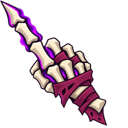
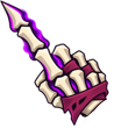
more add options

diff --git a/app.js b/app.js
@@ -60,9 +60,9 @@ const DEFAULT_TIERS=[['S','#ff7f7f'],['A','#ffbf7f'],['B','#ffdf7f'],['C','#ffff
 const APP_PREFERENCES_KEY='tierforge:preferences';
 const LABEL_MODES=new Set(['find','show','hover']);
 const CURSORS={
-  ironclad:{name:'Ironclad',src:'assets/cursors/ironclad.png',hotspot:[2.5,.5]},
-  necrobinder:{name:'Necrobinder',src:'assets/cursors/necrobinder.png',hotspot:[5,2]},
-  silent:{name:'Silent',src:'assets/cursors/silent.png',hotspot:[4,1.5]}
+  ironclad:{name:'Ironclad',src:'assets/cursors/ironclad.png',hotspot:[0,0]},
+  necrobinder:{name:'Necrobinder',src:'assets/cursors/necrobinder.png',hotspot:[0,0]},
+  silent:{name:'Silent',src:'assets/cursors/silent.png',hotspot:[0,0]}
 };
 const DEFAULT_CURSOR_ICON='assets/cursors/default.png';
 const cursorIconSources=new Map();
@@ -2095,6 +2095,80 @@ function quickWikiImport(src){
   $('#localimgs').checked=!!helperBase; $('#embedimgs').checked=false;
   $('#btnFetch').click();
 }
+/* ============================ CATALOG PICKER ============================
+   Search the bundled catalogs and add individual entries to the pool, rather
+   than importing a whole list. Entries go through mergeItemsIntoPool, so an
+   item already on the board is never duplicated. */
+const catalogPicker={type:'all',chosen:new Map(),entries:null};
+const CATALOG_RESULT_LIMIT=240;
+function catalogEntries(){
+  if(!catalogPicker.entries)catalogPicker.entries=Promise.all(GAME_SOURCES.map(async src=>{
+    try{ return (await loadBundledCatalog(src)).items.map((it,i)=>({...it,key:`${src.id}:${i}`,itemType:src.itemType})); }
+    catch(e){ console.warn(`${src.itemType} catalog unavailable:`,e); return []; }
+  })).then(lists=>{ const all=lists.flat(); if(!all.length)catalogPicker.entries=null; return all; });
+  return catalogPicker.entries;
+}
+function boardImageKeys(){
+  const keys=new Set();
+  Object.values(S.items).forEach(it=>{ if(it.img)keys.add(it.img); if(it.src)keys.add(it.src); });
+  return keys;
+}
+async function renderCatalogPicker(){
+  const types=['all',...GAME_SOURCES.map(g=>g.itemType)];
+  $('#catalogTypes').innerHTML=types.map(t=>`<button type="button" role="radio" data-ctype="${t}"
+    aria-checked="${t===catalogPicker.type}" class="${t===catalogPicker.type?'primary':'ghost'}">${t[0].toUpperCase()+t.slice(1)}</button>`).join('');
+  $$('button[data-ctype]',$('#catalogTypes')).forEach(b=>b.onclick=()=>{ catalogPicker.type=b.dataset.ctype; renderCatalogPicker(); });
+  const results=$('#catalogResults');
+  if(!catalogPicker.entries)results.innerHTML='<div class="muted">Loading catalogs…</div>';
+  const entries=await catalogEntries();
+  if(!entries.length){ results.innerHTML='<div class="muted">No catalogs could be loaded.</div>'; return updateCatalogStatus(0); }
+  const terms=$('#catalogQuery').value.toLowerCase().split(/\s+/).filter(Boolean);
+  const matches=entries.filter(it=>(catalogPicker.type==='all'||it.itemType===catalogPicker.type)&&
+    terms.every(t=>[it.name,...(it.tags||[]),it.description].join(' ').toLowerCase().includes(t)));
+  const onBoard=boardImageKeys();
+  results.innerHTML=matches.slice(0,CATALOG_RESULT_LIMIT).map(it=>{
+    const present=onBoard.has(it.img||it.src);
+    return `<button type="button" class="catalog-entry${catalogPicker.chosen.has(it.key)?' chosen':''}${present?' present':''}"
+      data-ckey="${esc(it.key)}" title="${esc([it.name,(it.tags||[]).join(', '),it.description].filter(Boolean).join('\n'))}">
+      <img src="${esc(it.img||it.src)}" data-fallback="${esc(it.fallbackImg||'')}" alt="" loading="lazy">
+      <span class="catalog-name">${esc(it.name)}</span>
+      <small>${present?'On board':esc(it.itemType)}</small></button>`;
+  }).join('')||'<div class="muted">No matches.</div>';
+  $$('img[data-fallback]',results).forEach(img=>img.onerror=()=>{
+    const fallback=img.dataset.fallback; img.onerror=null; if(fallback)img.src=fallback; });
+  const byKey=new Map(entries.map(it=>[it.key,it]));
+  $$('.catalog-entry',results).forEach(b=>{
+    b.onclick=()=>{ const it=byKey.get(b.dataset.ckey);
+      if(catalogPicker.chosen.has(it.key))catalogPicker.chosen.delete(it.key); else catalogPicker.chosen.set(it.key,it);
+      b.classList.toggle('chosen',catalogPicker.chosen.has(it.key)); updateCatalogStatus(matches.length); };
+    b.ondblclick=()=>{ catalogPicker.chosen.set(b.dataset.ckey,byKey.get(b.dataset.ckey)); addChosenCatalogItems(); };
+  });
+  updateCatalogStatus(matches.length);
+}
+function updateCatalogStatus(matchCount){
+  const n=catalogPicker.chosen.size;
+  const shown=matchCount>CATALOG_RESULT_LIMIT?`Showing ${CATALOG_RESULT_LIMIT} of ${matchCount} — refine your search`:`${matchCount} match${matchCount===1?'':'es'}`;
+  $('#catalogStatus').textContent=n?`${shown} · ${n} selected`:shown;
+  $('#btnCatalogAdd').disabled=!n;
+  $('#btnCatalogAdd').textContent=n>1?`Add ${n} items`:'Add selected';
+}
+function addChosenCatalogItems(){
+  const items=[...catalogPicker.chosen.values()].map(({key,itemType,...it})=>it);
+  if(!items.length)return;
+  snapshot(); const added=mergeItemsIntoPool({items});
+  catalogPicker.chosen.clear(); persist(); render(); dlgCatalog.close();
+  toast(added?`Added ${added} item${added===1?'':'s'} to the pool`:'Already on the board');
+}
+$('#btnAddCatalog').onclick=()=>{
+  catalogPicker.chosen.clear(); $('#catalogQuery').value='';
+  const detected=detectGameSource(S); catalogPicker.type=detected?detected.itemType:'all';
+  dlgCatalog.showModal(); $('#catalogQuery').focus(); renderCatalogPicker();
+};
+let catalogQueryTimer=0;
+$('#catalogQuery').oninput=()=>{ clearTimeout(catalogQueryTimer); catalogQueryTimer=setTimeout(renderCatalogPicker,120); };
+$('#catalogQuery').onkeydown=e=>{ if(e.key==='Enter'&&catalogPicker.chosen.size){ e.preventDefault(); addChosenCatalogItems(); } };
+$('#btnCatalogAdd').onclick=addChosenCatalogItems;
+
 $('#embedimgs').onchange=()=>{ if($('#embedimgs').checked) $('#localimgs').checked=false; };
 $('#localimgs').onchange=()=>{ if($('#localimgs').checked) $('#embedimgs').checked=false; };
 

diff --git a/public/app.js b/public/app.js
@@ -60,9 +60,9 @@ const DEFAULT_TIERS=[['S','#ff7f7f'],['A','#ffbf7f'],['B','#ffdf7f'],['C','#ffff
 const APP_PREFERENCES_KEY='tierforge:preferences';
 const LABEL_MODES=new Set(['find','show','hover']);
 const CURSORS={
-  ironclad:{name:'Ironclad',src:'assets/cursors/ironclad.png',hotspot:[2.5,.5]},
-  necrobinder:{name:'Necrobinder',src:'assets/cursors/necrobinder.png',hotspot:[5,2]},
-  silent:{name:'Silent',src:'assets/cursors/silent.png',hotspot:[4,1.5]}
+  ironclad:{name:'Ironclad',src:'assets/cursors/ironclad.png',hotspot:[0,0]},
+  necrobinder:{name:'Necrobinder',src:'assets/cursors/necrobinder.png',hotspot:[0,0]},
+  silent:{name:'Silent',src:'assets/cursors/silent.png',hotspot:[0,0]}
 };
 const DEFAULT_CURSOR_ICON='assets/cursors/default.png';
 const cursorIconSources=new Map();
@@ -2095,6 +2095,80 @@ function quickWikiImport(src){
   $('#localimgs').checked=!!helperBase; $('#embedimgs').checked=false;
   $('#btnFetch').click();
 }
+/* ============================ CATALOG PICKER ============================
+   Search the bundled catalogs and add individual entries to the pool, rather
+   than importing a whole list. Entries go through mergeItemsIntoPool, so an
+   item already on the board is never duplicated. */
+const catalogPicker={type:'all',chosen:new Map(),entries:null};
+const CATALOG_RESULT_LIMIT=240;
+function catalogEntries(){
+  if(!catalogPicker.entries)catalogPicker.entries=Promise.all(GAME_SOURCES.map(async src=>{
+    try{ return (await loadBundledCatalog(src)).items.map((it,i)=>({...it,key:`${src.id}:${i}`,itemType:src.itemType})); }
+    catch(e){ console.warn(`${src.itemType} catalog unavailable:`,e); return []; }
+  })).then(lists=>{ const all=lists.flat(); if(!all.length)catalogPicker.entries=null; return all; });
+  return catalogPicker.entries;
+}
+function boardImageKeys(){
+  const keys=new Set();
+  Object.values(S.items).forEach(it=>{ if(it.img)keys.add(it.img); if(it.src)keys.add(it.src); });
+  return keys;
+}
+async function renderCatalogPicker(){
+  const types=['all',...GAME_SOURCES.map(g=>g.itemType)];
+  $('#catalogTypes').innerHTML=types.map(t=>`<button type="button" role="radio" data-ctype="${t}"
+    aria-checked="${t===catalogPicker.type}" class="${t===catalogPicker.type?'primary':'ghost'}">${t[0].toUpperCase()+t.slice(1)}</button>`).join('');
+  $$('button[data-ctype]',$('#catalogTypes')).forEach(b=>b.onclick=()=>{ catalogPicker.type=b.dataset.ctype; renderCatalogPicker(); });
+  const results=$('#catalogResults');
+  if(!catalogPicker.entries)results.innerHTML='<div class="muted">Loading catalogs…</div>';
+  const entries=await catalogEntries();
+  if(!entries.length){ results.innerHTML='<div class="muted">No catalogs could be loaded.</div>'; return updateCatalogStatus(0); }
+  const terms=$('#catalogQuery').value.toLowerCase().split(/\s+/).filter(Boolean);
+  const matches=entries.filter(it=>(catalogPicker.type==='all'||it.itemType===catalogPicker.type)&&
+    terms.every(t=>[it.name,...(it.tags||[]),it.description].join(' ').toLowerCase().includes(t)));
+  const onBoard=boardImageKeys();
+  results.innerHTML=matches.slice(0,CATALOG_RESULT_LIMIT).map(it=>{
+    const present=onBoard.has(it.img||it.src);
+    return `<button type="button" class="catalog-entry${catalogPicker.chosen.has(it.key)?' chosen':''}${present?' present':''}"
+      data-ckey="${esc(it.key)}" title="${esc([it.name,(it.tags||[]).join(', '),it.description].filter(Boolean).join('\n'))}">
+      <img src="${esc(it.img||it.src)}" data-fallback="${esc(it.fallbackImg||'')}" alt="" loading="lazy">
+      <span class="catalog-name">${esc(it.name)}</span>
+      <small>${present?'On board':esc(it.itemType)}</small></button>`;
+  }).join('')||'<div class="muted">No matches.</div>';
+  $$('img[data-fallback]',results).forEach(img=>img.onerror=()=>{
+    const fallback=img.dataset.fallback; img.onerror=null; if(fallback)img.src=fallback; });
+  const byKey=new Map(entries.map(it=>[it.key,it]));
+  $$('.catalog-entry',results).forEach(b=>{
+    b.onclick=()=>{ const it=byKey.get(b.dataset.ckey);
+      if(catalogPicker.chosen.has(it.key))catalogPicker.chosen.delete(it.key); else catalogPicker.chosen.set(it.key,it);
+      b.classList.toggle('chosen',catalogPicker.chosen.has(it.key)); updateCatalogStatus(matches.length); };
+    b.ondblclick=()=>{ catalogPicker.chosen.set(b.dataset.ckey,byKey.get(b.dataset.ckey)); addChosenCatalogItems(); };
+  });
+  updateCatalogStatus(matches.length);
+}
+function updateCatalogStatus(matchCount){
+  const n=catalogPicker.chosen.size;
+  const shown=matchCount>CATALOG_RESULT_LIMIT?`Showing ${CATALOG_RESULT_LIMIT} of ${matchCount} — refine your search`:`${matchCount} match${matchCount===1?'':'es'}`;
+  $('#catalogStatus').textContent=n?`${shown} · ${n} selected`:shown;
+  $('#btnCatalogAdd').disabled=!n;
+  $('#btnCatalogAdd').textContent=n>1?`Add ${n} items`:'Add selected';
+}
+function addChosenCatalogItems(){
+  const items=[...catalogPicker.chosen.values()].map(({key,itemType,...it})=>it);
+  if(!items.length)return;
+  snapshot(); const added=mergeItemsIntoPool({items});
+  catalogPicker.chosen.clear(); persist(); render(); dlgCatalog.close();
+  toast(added?`Added ${added} item${added===1?'':'s'} to the pool`:'Already on the board');
+}
+$('#btnAddCatalog').onclick=()=>{
+  catalogPicker.chosen.clear(); $('#catalogQuery').value='';
+  const detected=detectGameSource(S); catalogPicker.type=detected?detected.itemType:'all';
+  dlgCatalog.showModal(); $('#catalogQuery').focus(); renderCatalogPicker();
+};
+let catalogQueryTimer=0;
+$('#catalogQuery').oninput=()=>{ clearTimeout(catalogQueryTimer); catalogQueryTimer=setTimeout(renderCatalogPicker,120); };
+$('#catalogQuery').onkeydown=e=>{ if(e.key==='Enter'&&catalogPicker.chosen.size){ e.preventDefault(); addChosenCatalogItems(); } };
+$('#btnCatalogAdd').onclick=addChosenCatalogItems;
+
 $('#embedimgs').onchange=()=>{ if($('#embedimgs').checked) $('#localimgs').checked=false; };
 $('#localimgs').onchange=()=>{ if($('#localimgs').checked) $('#embedimgs').checked=false; };
 

diff --git a/app.css b/app.css
@@ -319,6 +319,19 @@ textarea{width:100%;min-height:120px;font-family:Consolas,monospace;font-size:12
 .folder-import .import-section-title{margin-bottom:2px}
 #gameSources{display:flex;align-items:center;gap:6px;flex-wrap:wrap}
 #gameSources .row{margin:0!important}
+.catalog-controls{display:flex;gap:8px;flex-wrap:wrap;align-items:center}
+.catalog-controls input{flex:1;min-width:200px}
+.catalog-types{display:flex;gap:4px;flex-wrap:wrap}
+.catalog-results{display:grid;grid-template-columns:repeat(auto-fill,minmax(104px,1fr));gap:8px;align-content:start;min-height:200px}
+.catalog-entry{display:flex;flex-direction:column;align-items:center;gap:4px;padding:6px;text-align:center;
+  background:var(--panel2);border:2px solid transparent;border-radius:8px}
+.catalog-entry:hover{border-color:var(--line)}
+.catalog-entry.chosen{border-color:var(--accent);background:#16243a}
+.catalog-entry.present{opacity:.55}
+.catalog-entry img{width:72px;height:72px;object-fit:contain;border-radius:4px}
+.catalog-name{font-size:12px;line-height:1.2;color:var(--fg);overflow-wrap:anywhere}
+.catalog-entry small{font-size:10.5px;color:var(--dim);text-transform:capitalize}
+.catalog-status{margin-right:auto;align-self:center;font-size:12px}
 .import-options{border-top:1px solid var(--line);padding-top:8px;color:var(--dim);font-size:12px}
 .import-options summary{cursor:pointer;user-select:none}
 .option-list{display:grid;grid-template-columns:1fr 1fr;gap:8px 16px;padding-top:10px}

diff --git a/public/app.css b/public/app.css
@@ -319,6 +319,19 @@ textarea{width:100%;min-height:120px;font-family:Consolas,monospace;font-size:12
 .folder-import .import-section-title{margin-bottom:2px}
 #gameSources{display:flex;align-items:center;gap:6px;flex-wrap:wrap}
 #gameSources .row{margin:0!important}
+.catalog-controls{display:flex;gap:8px;flex-wrap:wrap;align-items:center}
+.catalog-controls input{flex:1;min-width:200px}
+.catalog-types{display:flex;gap:4px;flex-wrap:wrap}
+.catalog-results{display:grid;grid-template-columns:repeat(auto-fill,minmax(104px,1fr));gap:8px;align-content:start;min-height:200px}
+.catalog-entry{display:flex;flex-direction:column;align-items:center;gap:4px;padding:6px;text-align:center;
+  background:var(--panel2);border:2px solid transparent;border-radius:8px}
+.catalog-entry:hover{border-color:var(--line)}
+.catalog-entry.chosen{border-color:var(--accent);background:#16243a}
+.catalog-entry.present{opacity:.55}
+.catalog-entry img{width:72px;height:72px;object-fit:contain;border-radius:4px}
+.catalog-name{font-size:12px;line-height:1.2;color:var(--fg);overflow-wrap:anywhere}
+.catalog-entry small{font-size:10.5px;color:var(--dim);text-transform:capitalize}
+.catalog-status{margin-right:auto;align-self:center;font-size:12px}
 .import-options{border-top:1px solid var(--line);padding-top:8px;color:var(--dim);font-size:12px}
 .import-options summary{cursor:pointer;user-select:none}
 .option-list{display:grid;grid-template-columns:1fr 1fr;gap:8px 16px;padding-top:10px}

diff --git a/public/index.html b/public/index.html
@@ -86,6 +86,7 @@
         <span id="poolcount" class="muted"></span>
         <div class="spacer"></div>
         <button id="btnSortPool" class="ghost">Sort A→Z</button>
+        <button id="btnAddCatalog" class="ghost">+ Add from catalog…</button>
         <button id="btnAddImgs" class="ghost">+ Add images…</button>
         <input id="fileinput" type="file" accept="image/*" multiple hidden>
       </div>
@@ -259,6 +260,23 @@
     <button id="coopEndCancel">Cancel</button>
     <button id="coopEndWithout" class="danger">End without saving</button>
     <button id="coopSaveEnd" class="primary">Save a copy and end</button>
+  </div>
+</dialog>
+
+<!-- ============ CATALOG PICKER ============ -->
+<dialog id="dlgCatalog">
+  <h3>Add from catalog</h3>
+  <div class="dbody">
+    <div class="catalog-controls">
+      <input id="catalogQuery" type="search" placeholder="Search name, tag, description…" spellcheck="false" autocomplete="off">
+      <div id="catalogTypes" class="catalog-types" role="radiogroup" aria-label="Catalog"></div>
+    </div>
+    <div id="catalogResults" class="catalog-results" aria-live="polite"></div>
+  </div>
+  <div class="dfoot">
+    <span id="catalogStatus" class="muted catalog-status"></span>
+    <button id="btnCatalogAdd" class="primary" disabled>Add selected</button>
+    <button onclick="dlgCatalog.close()">Close</button>
   </div>
 </dialog>
 

diff --git a/tierforge.html b/tierforge.html
@@ -85,6 +85,7 @@
         <span id="poolcount" class="muted"></span>
         <div class="spacer"></div>
         <button id="btnSortPool" class="ghost">Sort A→Z</button>
+        <button id="btnAddCatalog" class="ghost">+ Add from catalog…</button>
         <button id="btnAddImgs" class="ghost">+ Add images…</button>
         <input id="fileinput" type="file" accept="image/*" multiple hidden>
       </div>
@@ -258,6 +259,23 @@
     <button id="coopEndCancel">Cancel</button>
     <button id="coopEndWithout" class="danger">End without saving</button>
     <button id="coopSaveEnd" class="primary">Save a copy and end</button>
+  </div>
+</dialog>
+
+<!-- ============ CATALOG PICKER ============ -->
+<dialog id="dlgCatalog">
+  <h3>Add from catalog</h3>
+  <div class="dbody">
+    <div class="catalog-controls">
+      <input id="catalogQuery" type="search" placeholder="Search name, tag, description…" spellcheck="false" autocomplete="off">
+      <div id="catalogTypes" class="catalog-types" role="radiogroup" aria-label="Catalog"></div>
+    </div>
+    <div id="catalogResults" class="catalog-results" aria-live="polite"></div>
+  </div>
+  <div class="dfoot">
+    <span id="catalogStatus" class="muted catalog-status"></span>
+    <button id="btnCatalogAdd" class="primary" disabled>Add selected</button>
+    <button onclick="dlgCatalog.close()">Close</button>
   </div>
 </dialog>
 
